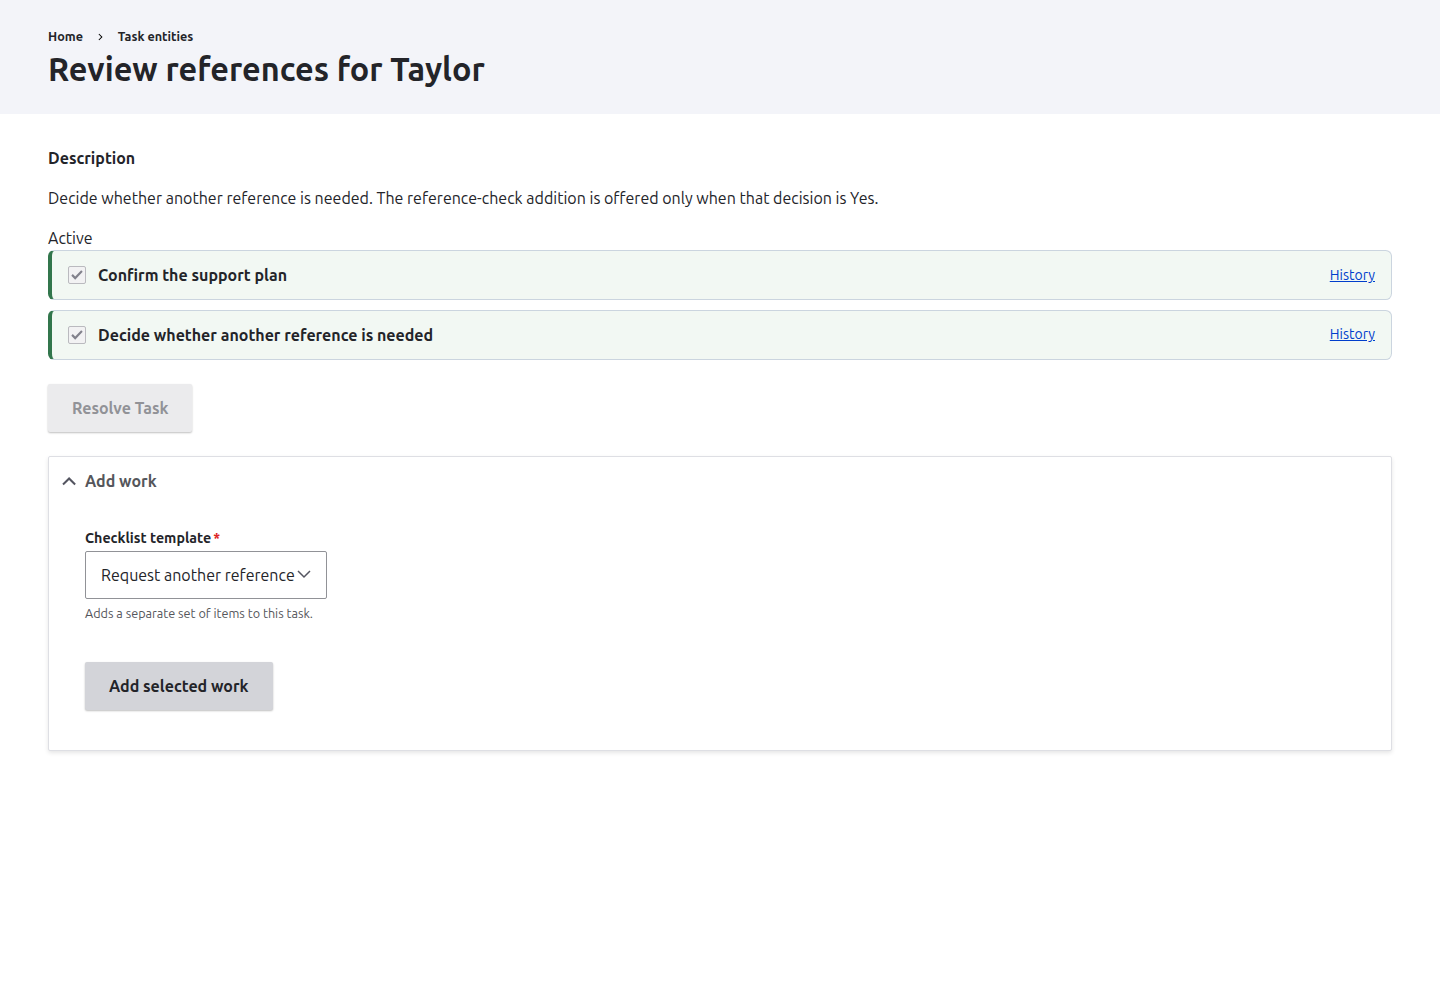
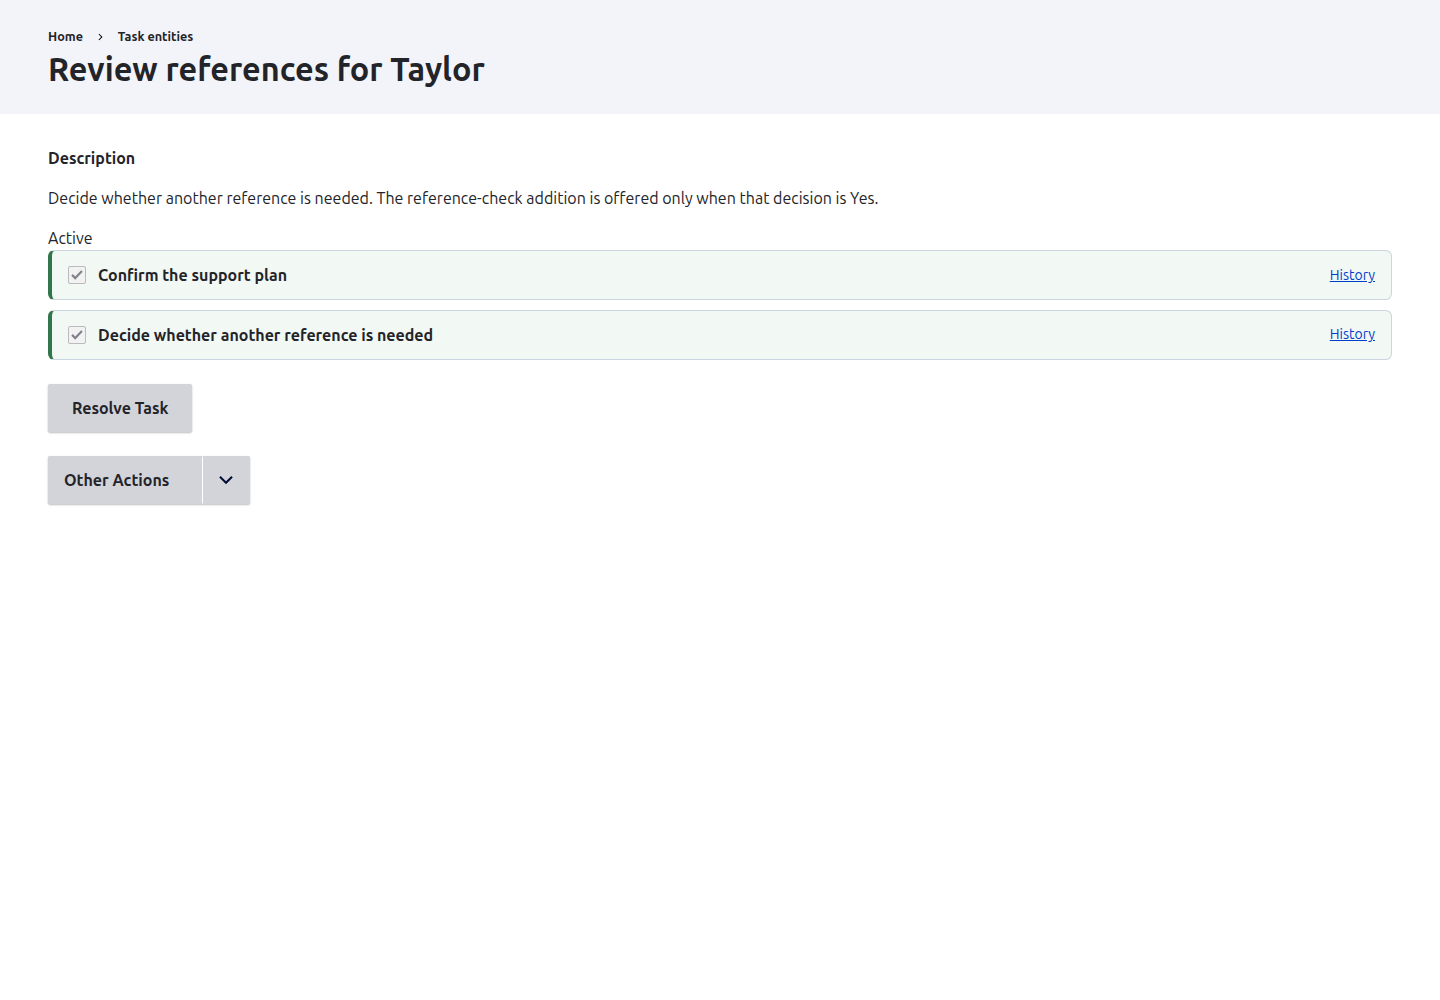
Use compact dropbutton and inline overflow chooser for additions

Changed region(s): [[0.0312, 0.403, 0.2188, 0.62], [0.0312, 0.651, 0.1875, 0.713]]

diff --git a/modules/data/task/contrib/job/contrib/additions/css/additions.css b/modules/data/task/contrib/job/contrib/additions/css/additions.css
@@ -1,0 +1,6 @@
+.checklist-addition-chooser {
+  padding: 1rem;
+  border: 1px solid #ccd4df;
+  border-inline-start: 4px solid #315f7a;
+  border-radius: 0.25rem;
+}

diff --git a/modules/data/task/contrib/job/contrib/additions/tests/src/Functional/AddWorkTest.php b/modules/data/task/contrib/job/contrib/additions/tests/src/Functional/AddWorkTest.php
@@ -77,20 +77,52 @@ class AddWorkTest extends BrowserTestBase {
     $task = Task::create(['title' => 'Review task', 'job' => 'support', 'start' => '2000-01-01T00:00:00']);
     $task->save();
     $this->drupalGet($task->toUrl());
-    $this->assertSession()->optionExists('template', 'Request an evidence review');
+    $this->assertSession()->buttonExists('Request an evidence review');
+    $this->assertSession()->fieldNotExists('template');
     $request_id = $this->assertSession()->elementExists('css', 'input[name=request_id]')->getValue();
-    $this->submitForm(['template' => 'review'], 'Add selected work');
+    $this->submitForm([], 'Request an evidence review');
     $this->assertSession()->pageTextContains('The checklist work has been added.');
     $this->assertSession()->pageTextContains('Confirm evidence reviewed');
     // A repeated POST keeps the original request ID after the form was rebuilt.
     $this->assertSession()->elementExists('css', 'input[name=request_id]')->setValue($request_id);
-    $this->submitForm(['template' => 'review'], 'Add selected work');
+    $this->submitForm([], 'Request an evidence review');
     $this->assertCount(1, $this->container->get('task_job_additions.storage')->forTask($task->uuid()));
-    $this->submitForm(['template' => 'review'], 'Add selected work');
+    $this->submitForm([], 'Request an evidence review');
     $this->assertCount(2, $this->container->get('task_job_additions.storage')->forTask($task->uuid()));
     $this->drupalLogin($this->drupalCreateUser(['view any tasks', 'update any tasks']));
     $this->drupalGet($task->toUrl());
+    $this->assertSession()->buttonNotExists('Request an evidence review');
+  }
+
+  /**
+   * Long lists open a cancellable chooser without adding work on navigation.
+   */
+  public function testOverflowChooser(): void {
+    $job = Job::load('support');
+    $template = $job->get('checklist_templates')['review'];
+    $template['allow_addition'] = TRUE;
+    $templates = [];
+    for ($i = 1; $i <= 7; $i++) {
+      $templates['review_' . $i] = ['label' => 'Review ' . $i] + $template;
+    }
+    $job->set('checklist_templates', $templates)->save();
+    $task = Task::create(['title' => 'More work', 'job' => $job]);
+    $task->save();
+    $this->drupalGet($task->toUrl());
+    $this->assertSession()->buttonExists('Review 4');
+    $this->assertSession()->buttonNotExists('Review 5');
     $this->assertSession()->fieldNotExists('template');
+    $this->submitForm([], 'Do something else');
+    $this->assertSession()->optionExists('template', 'Review 7');
+    $this->assertCount(0, $this->container->get('task_job_additions.storage')->forTask($task->uuid()));
+    $this->submitForm([], 'Cancel');
+    $this->assertSession()->fieldNotExists('template');
+    $this->submitForm([], 'Do something else');
+    $this->submitForm(['template' => 'review_7'], 'Add selected work');
+    $this->assertSession()->pageTextContains('The checklist work has been added.');
+    $receipts = array_values($this->container->get('task_job_additions.storage')->forTask($task->uuid()));
+    $this->assertCount(1, $receipts);
+    $this->assertSame('review_7', $receipts[0]['template']);
   }
 
   /**
@@ -165,16 +197,16 @@ class AddWorkTest extends BrowserTestBase {
     $task = Task::create(['title' => 'Needs evidence', 'job' => 'support']);
     $task->save();
     $this->drupalGet($task->toUrl());
-    $this->assertSession()->fieldExists('template');
+    $this->assertSession()->buttonExists('Review evidence');
     $task->set('title', 'Evidence received')->save();
     $this->drupalGet($task->toUrl());
-    $this->assertSession()->fieldNotExists('template');
+    $this->assertSession()->buttonNotExists('Review evidence');
     $this->drupalGet($url);
     $this->submitForm(['templates[review][addition_condition][id]' => ''], 'Update condition');
     $this->submitForm([], 'Save');
     $this->assertArrayNotHasKey('addition_condition', $storage->loadUnchanged('support')->get('checklist_templates')['review']);
     $this->drupalGet($task->toUrl());
-    $this->assertSession()->fieldExists('template');
+    $this->assertSession()->buttonExists('Review evidence');
     $this->drupalGet($url);
     $this->submitForm(['templates[review][addition_condition][id]' => 'user_role'], 'Update condition');
     $this->assertSession()->elementAttributeContains('css', '[name="templates[review][addition_condition][settings][context_mapping][user]"]', 'data-autocomplete-path', 'typed_data_context_assignment_autocomplete');

diff --git a/modules/data/task/contrib/job/contrib/additions/src/Form/AddWorkForm.php b/modules/data/task/contrib/job/contrib/additions/src/Form/AddWorkForm.php
@@ -49,23 +49,81 @@ class AddWorkForm extends FormBase {
       '#type' => 'hidden',
       '#default_value' => $form_state->get('addition_request'),
     ];
-    $form['work'] = [
-      '#type' => 'details',
-      '#title' => $this->t('Add work'),
-      '#open' => FALSE,
-    ];
-    $form['work']['template'] = [
-      '#type' => 'select',
-      '#title' => $this->t('Checklist template'),
-      '#options' => array_map(static fn(array $choice) => $choice['label'], $choices['templates']),
-      '#empty_option' => $this->t('- Select work -'),
-      '#required' => TRUE,
-      '#description' => $this->t('Adds a separate set of items to this task.'),
-    ];
-    $form['work']['add'] = [
-      '#type' => 'submit',
-      '#value' => $this->t('Add selected work'),
-    ];
+    $form['#prefix'] = '<div id="task-addition-form-' . $task->uuid() . '">';
+    $form['#suffix'] = '</div>';
+    $ajax = ['callback' => '::refresh', 'wrapper' => 'task-addition-form-' . $task->uuid()];
+    if ($form_state->get('choose_addition')) {
+      $form['work'] = [
+        '#type' => 'container',
+        '#attributes' => ['class' => ['checklist-addition-chooser']],
+      ];
+      $form['work']['template'] = [
+        '#type' => 'select',
+        '#title' => $this->t('What else would you like to do?'),
+        '#options' => array_map(static fn(array $choice) => $choice['label'], $choices['templates']),
+        '#empty_option' => $this->t('- Select work -'),
+        '#required' => TRUE,
+      ];
+      $form['work']['actions'] = ['#type' => 'actions'];
+      $form['work']['actions']['add'] = [
+        '#type' => 'submit',
+        '#value' => $this->t('Add selected work'),
+      ];
+      $form['work']['actions']['cancel'] = [
+        '#type' => 'submit',
+        '#value' => $this->t('Cancel'),
+        '#submit' => ['::choose'],
+        '#limit_validation_errors' => [],
+        '#ajax' => $ajax,
+        '#choose_addition' => FALSE,
+      ];
+    }
+    else {
+      $form['actions'] = ['#type' => 'actions'];
+      $form['actions']['label'] = [
+        '#type' => 'html_tag',
+        '#tag' => 'span',
+        '#value' => $this->t('Other Actions'),
+        '#dropbutton' => 'additions',
+      ];
+      $overflow = count($choices['templates']) > 5;
+      foreach (array_slice($choices['templates'], 0, $overflow ? 4 : 5, TRUE) as $name => $choice) {
+        $form['actions']['addition_' . $name] = [
+          '#type' => 'submit',
+          '#name' => 'addition_' . $name,
+          '#value' => $choice['label'],
+          '#addition_template' => $name,
+          '#dropbutton' => 'additions',
+        ];
+      }
+      if ($overflow) {
+        $form['actions']['more'] = [
+          '#type' => 'submit',
+          '#name' => 'choose_addition',
+          '#value' => $this->t('Do something else'),
+          '#dropbutton' => 'additions',
+          '#submit' => ['::choose'],
+          '#limit_validation_errors' => [],
+          '#ajax' => $ajax,
+          '#choose_addition' => TRUE,
+        ];
+      }
+    }
+    return $form;
+  }
+
+  /**
+   * Opens or cancels the inline chooser without creating checklist work.
+   */
+  public function choose(array &$form, FormStateInterface $form_state): void {
+    $form_state->set('choose_addition', $form_state->getTriggeringElement()['#choose_addition']);
+    $form_state->setRebuild();
+  }
+
+  /**
+   * Returns the rebuilt chooser in the checklist action area.
+   */
+  public function refresh(array &$form, FormStateInterface $form_state): array {
     return $form;
   }
 
@@ -75,7 +133,7 @@ class AddWorkForm extends FormBase {
   public function submitForm(array &$form, FormStateInterface $form_state): void {
     $task = $form_state->getBuildInfo()['args'][0];
     try {
-      $this->manager->add($task, $form_state->getValue('template'), $form_state->getValue('request_id'));
+      $this->manager->add($task, $form_state->getTriggeringElement()['#addition_template'] ?? $form_state->getValue('template'), $form_state->getValue('request_id'));
       $this->messenger()->addStatus($this->t('The checklist work has been added.'));
       $form_state->setRedirectUrl($task->toUrl());
     }

diff --git a/docs/screenshots/job-addition-availability/README.md b/docs/screenshots/job-addition-availability/README.md
@@ -13,11 +13,18 @@ items.reference_needed.outcomes.decision == "yes"
 - `availability-config.png`: native condition configuration on the template tab,
   with the addition label and the job's available contexts.
 - `availability-before.png`: the decision form before a choice; Add work is absent.
-- `availability-after.png`: choosing **Another reference is needed** reveals
-  **Request another reference** through the AJAX response, without a page reload.
-  Completing **Confirm the support plan** then preserves the selected addition
-  and its hidden request UUID, verified by Playwright.
-- `availability-mobile.png`: the same available addition at 390px width.
+- `availability-after.png`: the compact **Other Actions** dropbutton after the
+  decision makes another reference available.
+- `additions-menu.png` and `availability-mobile.png`: the direct addition in the
+  open menu on desktop and mobile.
+- `additions-overflow-menu.png`: a separate seven-choice support job shows four
+  direct actions and **Do something else**.
+- `additions-overflow-chooser.png` and `additions-overflow-mobile.png`: choosing
+  **Do something else** opens the inline chooser in the checklist area.
+
+Playwright exercised opening, cancelling, reopening and submitting the overflow
+chooser, then checked the new checklist item appeared. The compact menu and
+inline chooser use real Drupal forms, not mocked controls.
 
 Desktop capture: 1440px wide. Playwright reported no page JavaScript errors.
 These screenshots show an example without resource tabs, so the checklist uses

diff --git a/modules/data/task/contrib/job/contrib/additions/README.md b/modules/data/task/contrib/job/contrib/additions/README.md
@@ -52,6 +52,18 @@ or resumes an attempt. The receipt records who added the work; the attempt keeps
 its initiator, executor and job authorizer as distinct identities. Later processing
 may be initiated by another authorized task save without rewriting the receipt.
 
+## Compact task controls
+
+Available additions appear in an **Other Actions** dropbutton. Each named action
+submits directly through Drupal Form API, keeping its CSRF protection and the
+same server-side availability/access checks as the API.
+
+Up to five additions fit in the menu. With more choices, the first four remain
+there and **Do something else** opens an inline chooser in the checklist action
+area. The chooser lists all available additions and has Add and Cancel actions.
+Opening or cancelling it does not persist a checklist item or addition receipt.
+The chooser also works without JavaScript through an ordinary form rebuild.
+
 ## Optional HTTP API
 
 Enable `task_job_additions_api` to expose:
